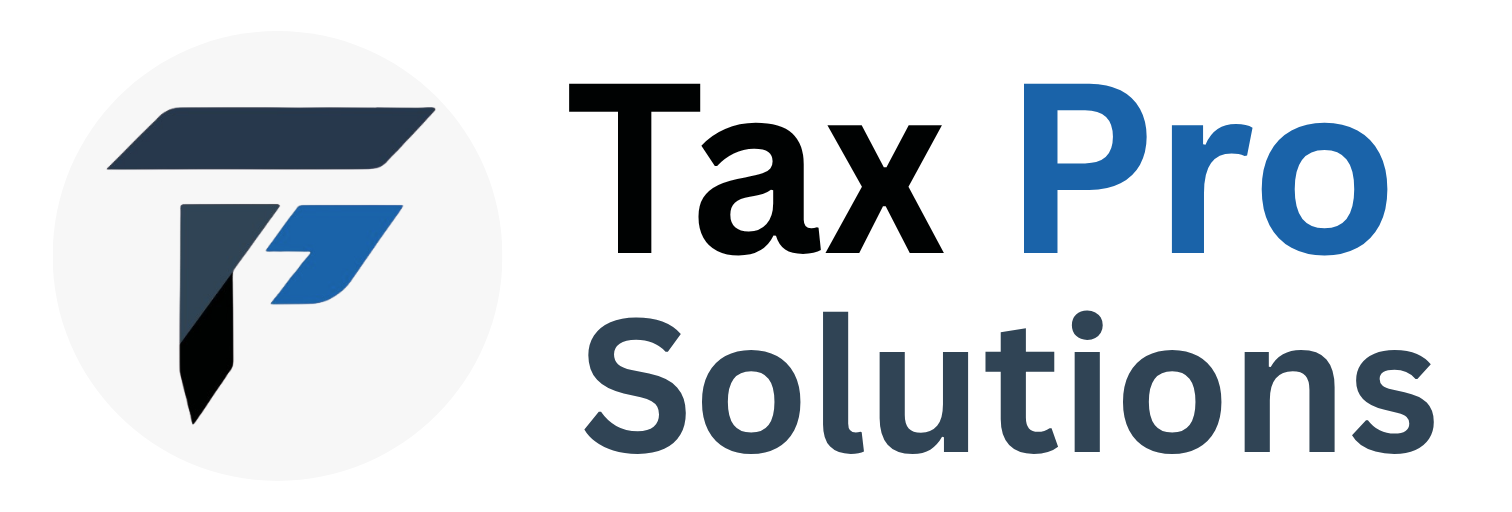
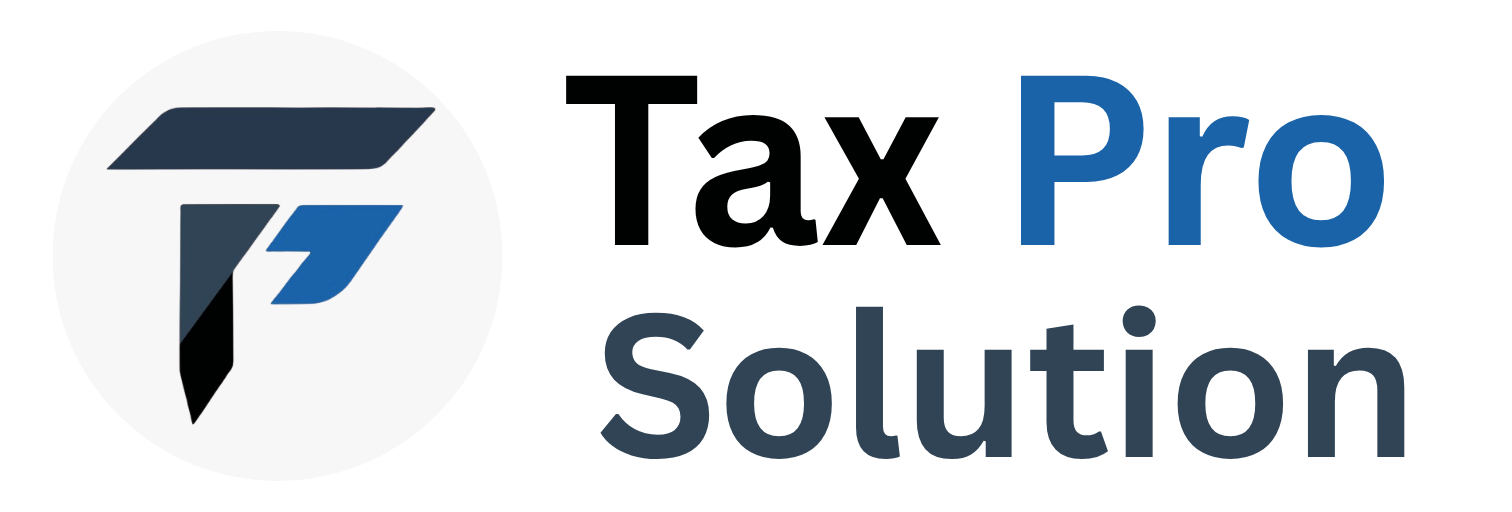
refactor: update branding from Tax Pro Solutions to Tax Pro Solution across multiple files

diff --git a/client/src/pages/About.jsx b/client/src/pages/About.jsx
@@ -75,7 +75,7 @@ const storyChapters = [
     title: "The Beginning",
     icon: FaLightbulb,
     accent: "from-amber-400 to-orange-500",
-    text: "TaxPro Solution started with one idea—starting a business in India should feel simple, not stressful.",
+    text: "Tax Pro Solution started with one idea—starting a business in India should feel simple, not stressful.",
   },
   {
     step: "02",
@@ -110,16 +110,16 @@ const About = () => {
   const aboutSchema = {
     "@context": "https://schema.org",
     "@type": "AboutPage",
-    name: "About Tax Pro Solutions",
+    name: "About Tax Pro Solution",
     description:
-      "Learn about Tax Pro Solutions - your trusted partner in business registration and compliance",
+      "Learn about Tax Pro Solution - your trusted partner in business registration and compliance",
   };
 
   return (
     <>
       <SEOHelmet
-        title="About Tax Pro Solutions - Your Business Growth Partner"
-        description="Discover Tax Pro Solutions's mission to simplify business registration and compliance. We're your trusted partner for GST, company registration, and tax solutions."
+        title="About Tax Pro Solution - Your Business Growth Partner"
+        description="Discover Tax Pro Solution's mission to simplify business registration and compliance. We're your trusted partner for GST, company registration, and tax solutions."
         keywords="about us, business solutions, company registration, tax services, compliance"
         canonicalUrl="https://taxprosolution.co.in/about"
         structuredData={aboutSchema}
@@ -148,7 +148,7 @@ const About = () => {
         </div>
 
         <div className="about-animate-in relative z-10 mx-auto max-w-5xl px-4 text-center sm:px-12 md:px-20">
-          <SectionBadge>About TaxPro Solution</SectionBadge>
+          <SectionBadge>About Tax Pro Solution</SectionBadge>
           <h1 className="mb-4 text-3xl font-bold text-white sm:text-4xl md:text-5xl lg:text-6xl">
             About Us
           </h1>
@@ -180,7 +180,7 @@ const About = () => {
                 About Us
               </h2>
               <p className="text-(--secondary) text-base sm:text-lg leading-relaxed mb-4">
-                TaxPro Solution is a leading business services platform
+                Tax Pro Solution is a leading business services platform
                 dedicated to helping entrepreneurs navigate company registration,
                 compliance, and legal documentation with confidence.
               </p>
@@ -216,7 +216,7 @@ const About = () => {
               <div className="relative overflow-hidden rounded-3xl shadow-2xl shadow-indigo-300/30 ring-1 ring-white/60">
                 <img
                   src={About1}
-                  alt="About TaxPro Solution"
+                  alt="About Tax Pro Solution"
                   className="w-full h-auto object-cover transition duration-700 hover:scale-105"
                 />
               </div>

diff --git a/client/index.html b/client/index.html
@@ -3,9 +3,9 @@
   <head>
     <meta charset="UTF-8" />
     <meta name="viewport" content="width=device-width, initial-scale=1.0" />
-    <meta name="description" content="Tax Pro Solutions - Professional tax and registration services for businesses. Expert team with 15+ years experience helping 2000+ happy clients." />
+    <meta name="description" content="Tax Pro Solution - Professional tax and registration services for businesses. Expert team with 15+ years experience helping 2000+ happy clients." />
     <meta name="keywords" content="tax services, business registration, GST, corporate registration, tax consulting, business compliance" />
-    <meta name="author" content="Tax Pro Solutions" />
+    <meta name="author" content="Tax Pro Solution" />
     <meta name="robots" content="index, follow" />
     <meta name="language" content="English" />
     <meta name="revisit-after" content="7 days" />
@@ -13,14 +13,14 @@
     <!-- Open Graph / Facebook -->
     <meta property="og:type" content="website" />
     <meta property="og:url" content="https://taxprosolution.co.in/" />
-    <meta property="og:title" content="Tax Pro Solutions - Professional Tax & Registration Services" />
+    <meta property="og:title" content="Tax Pro Solution - Professional Tax & Registration Services" />
     <meta property="og:description" content="Expert tax and registration services with 15+ years experience. Trusted by 2000+ businesses." />
     <meta property="og:image" content="https://taxprosolution.co.in/og-image.jpg" />
     
     <!-- Twitter -->
     <meta property="twitter:card" content="summary_large_image" />
     <meta property="twitter:url" content="https://taxprosolution.co.in/" />
-    <meta property="twitter:title" content="Tax Pro Solutions - Professional Tax & Registration Services" />
+    <meta property="twitter:title" content="Tax Pro Solution - Professional Tax & Registration Services" />
     <meta property="twitter:description" content="Expert tax and registration services with 15+ years experience." />
     <meta property="twitter:image" content="https://taxprosolution.co.in/twitter-image.jpg" />
     
@@ -36,14 +36,14 @@
     <link rel="preconnect" href="https://fonts.googleapis.com" />
     <link rel="dns-prefetch" href="https://api.taxprosolution.com" />
     
-    <title>Tax Pro Solutions - Professional Tax & Registration Services</title>
+    <title>Tax Pro Solution - Professional Tax & Registration Services</title>
     
     <!-- JSON-LD Structured Data -->
     <script type="application/ld+json">
     {
       "@context": "https://schema.org",
       "@type": "Organization",
-      "name": "Tax Pro Solutions",
+      "name": "Tax Pro Solution",
       "url": "https://taxprosolution.co.in",
       "logo": "https://taxprosolution.co.in/logo.png",
       "description": "Professional tax and registration services for businesses",

diff --git a/server/src/config/emailTemplates.js b/server/src/config/emailTemplates.js
@@ -9,7 +9,7 @@ const successColor = "#10b981";
 const emailHeader = () => {
   return `
     <div style="background: linear-gradient(135deg, ${primaryColor} 0%, ${primaryHoverColor} 100%); padding: 20px; text-align: center;">
-      <h1 style="color: white; margin: 0; font-size: 28px; font-weight: bold;">TaxPro Solution</h1>
+      <h1 style="color: white; margin: 0; font-size: 28px; font-weight: bold;">Tax Pro Solution</h1>
       <p style="color: ${accentColor}; margin: 5px 0 0 0;">Professional Business Solutions</p>
     </div>
   `;
@@ -20,7 +20,7 @@ const emailFooter = () => {
   return `
     <div style="background-color: ${lightBg}; padding: 20px; text-align: center; border-top: 1px solid #e5e7eb; margin-top: 30px;">
       <p style="color: ${textColor}; font-size: 12px; margin: 0;">
-        <strong>TaxPro Solution</strong> | Professional Business Services<br>
+        <strong>Tax Pro Solution</strong> | Professional Business Services<br>
         Email: taxprosolution26@gmail.com<br>
         This is an automated email. Please do not reply directly.
       </p>
@@ -109,7 +109,7 @@ export const leadCreationEmailTemplate = (leadData) => {
         
         <div style="padding: 30px; background-color: white;">
           <h2 style="color: ${primaryColor}; font-size: 20px; margin-bottom: 10px;">Welcome, ${clientName}!</h2>
-          <p style="color: ${textColor}; margin-bottom: 20px; font-size: 14px;">Thank you for choosing TaxPro Solution for your business needs.</p>
+          <p style="color: ${textColor}; margin-bottom: 20px; font-size: 14px;">Thank you for choosing Tax Pro Solution for your business needs.</p>
           
           <div style="background: linear-gradient(135deg, ${primaryColor}20 0%, ${accentColor}20 100%); padding: 25px; border-radius: 8px; border-left: 4px solid ${accentColor}; margin-bottom: 20px;">
             <p style="margin: 0 0 15px 0; color: ${textColor}; font-size: 14px;"><strong>Service:</strong></p>

diff --git a/client/src/pages/Contact.jsx b/client/src/pages/Contact.jsx
@@ -12,7 +12,7 @@ const ContactForm = () => {
     "@context": "https://schema.org",
     "@type": "ContactPage",
     "name": "Contact Us",
-    "description": "Get in touch with Tax Pro Solutions for business consulting and support"
+    "description": "Get in touch with Tax Pro Solution for business consulting and support"
   };
   const [contactData, setContactData] = useState({
     name: "",
@@ -89,8 +89,8 @@ const ContactForm = () => {
   return (
     <>
       <SEOHelmet
-        title="Contact Tax Pro Solutions - Expert Business Consultation"
-        description="Reach out to Tax Pro Solutions for expert business consultation, tax advice, and registration services. Our team is ready to help your business grow."
+        title="Contact Tax Pro Solution - Expert Business Consultation"
+        description="Reach out to Tax Pro Solution for expert business consultation, tax advice, and registration services. Our team is ready to help your business grow."
         keywords="contact, business consultation, tax advice, support, customer service"
         canonicalUrl="https://taxprosolution.co.in/contact"
         structuredData={contactSchema}
@@ -238,7 +238,7 @@ const ContactForm = () => {
             className="border-0 w-full aspect-[4/3] min-h-[220px] sm:min-h-[280px] md:aspect-video md:min-h-[320px]"
             width="100%"
             height="300"
-            title="Tax Pro Solutions office location"
+            title="Tax Pro Solution office location"
             allowFullScreen=""
             loading="lazy"
             referrerPolicy="no-referrer-when-downgrade"

diff --git a/client/src/pages/TrackStatus.jsx b/client/src/pages/TrackStatus.jsx
@@ -11,7 +11,7 @@ const TrackStatus = () => {
     "@context": "https://schema.org",
     "@type": "WebPage",
     "name": "Track Application Status",
-    "description": "Track the status of your business application with Tax Pro Solutions"
+    "description": "Track the status of your business application with Tax Pro Solution"
   };
   const [serviceIdInput, setServiceIdInput] = useState("");
   const [trackingData, setTrackingData] = useState(null);
@@ -93,8 +93,8 @@ const TrackStatus = () => {
   return (
     <>
       <SEOHelmet
-        title="Track Your Application Status - Tax Pro Solutions"
-        description="Track the real-time status of your business registration and service applications with Tax Pro Solutions. Monitor progress at every step."
+        title="Track Your Application Status - Tax Pro Solution"
+        description="Track the real-time status of your business registration and service applications with Tax Pro Solution. Monitor progress at every step."
         keywords="track status, application tracking, progress monitoring, application status"
         canonicalUrl="https://taxprosolution.co.in/track-status"
         structuredData={trackStatusSchema}

diff --git a/client/src/pages/EventsWebinars.jsx b/client/src/pages/EventsWebinars.jsx
@@ -16,14 +16,14 @@ const EventsWebinars = () => {
     "@type": "WebPage",
     name: "Events and Webinars",
     description:
-      "Events and webinars by Tax Pro Solutions for business registration, tax filing, GST, compliance, and trademark awareness.",
+      "Events and webinars by Tax Pro Solution for business registration, tax filing, GST, compliance, and trademark awareness.",
   };
 
   return (
     <>
       <SEOHelmet
-        title="Events & Webinar - Tax Pro Solutions"
-        description="Join Tax Pro Solutions events and webinars on business setup, GST, tax filing, compliance, accounting, and trademark protection."
+        title="Events & Webinar - Tax Pro Solution"
+        description="Join Tax Pro Solution events and webinars on business setup, GST, tax filing, compliance, accounting, and trademark protection."
         keywords="events, webinars, tax webinar, GST webinar, business registration event"
         canonicalUrl="https://taxprosolution.co.in/events-webinars"
         structuredData={eventsSchema}

diff --git a/client/src/pages/MediaPress.jsx b/client/src/pages/MediaPress.jsx
@@ -9,15 +9,15 @@ const MediaPress = () => {
     "@type": "WebPage",
     name: "Media and Press",
     description:
-      "Media and press information for Tax Pro Solutions, including company overview, service focus, and press contact.",
+      "Media and press information for Tax Pro Solution, including company overview, service focus, and press contact.",
   };
 
   return (
     <>
       <SEOHelmet
-        title="Media & Press - Tax Pro Solutions"
-        description="Find Tax Pro Solutions media information, company overview, service focus, and press contact details."
-        keywords="media, press, Tax Pro Solutions, company information, press contact"
+        title="Media & Press - Tax Pro Solution"
+        description="Find Tax Pro Solution media information, company overview, service focus, and press contact details."
+        keywords="media, press, Tax Pro Solution, company information, press contact"
         canonicalUrl="https://taxprosolution.co.in/media-press"
         structuredData={mediaSchema}
       />

diff --git a/client/src/pages/Sitemap.jsx b/client/src/pages/Sitemap.jsx
@@ -18,7 +18,7 @@ const Sitemap = () => {
     "@context": "https://schema.org",
     "@type": "WebPage",
     name: "Sitemap",
-    description: "Sitemap of all pages available on Tax Pro Solutions",
+    description: "Sitemap of all pages available on Tax Pro Solution",
   };
   const [categories, setCategories] = useState([]);
   const [loading, setLoading] = useState(true);
@@ -56,8 +56,8 @@ const Sitemap = () => {
   return (
     <>
       <SEOHelmet
-        title="Sitemap - Tax Pro Solutions Website Navigation"
-        description="Browse the complete sitemap of Tax Pro Solutions. Find all pages, services, and navigation links to explore our website."
+        title="Sitemap - Tax Pro Solution Website Navigation"
+        description="Browse the complete sitemap of Tax Pro Solution. Find all pages, services, and navigation links to explore our website."
         keywords="sitemap, navigation, site map, pages"
         canonicalUrl="https://taxprosolution.co.in/sitemap"
         structuredData={sitemapSchema}

diff --git a/client/src/pages/CookiePolicy.jsx b/client/src/pages/CookiePolicy.jsx
@@ -9,14 +9,14 @@ const CookiePolicy = () => {
     "@type": "WebPage",
     name: "Cookie Policy",
     description:
-      "Cookie Policy for Tax Pro Solutions - how cookies support service forms, analytics, and website performance.",
+      "Cookie Policy for Tax Pro Solution - how cookies support service forms, analytics, and website performance.",
   };
 
   return (
     <>
       <SEOHelmet
-        title="Cookie Policy - Tax Pro Solutions"
-        description="Learn how Tax Pro Solutions uses cookies and similar technologies to improve website performance, service forms, analytics, and user experience."
+        title="Cookie Policy - Tax Pro Solution"
+        description="Learn how Tax Pro Solution uses cookies and similar technologies to improve website performance, service forms, analytics, and user experience."
         keywords="cookie policy, website cookies, analytics, user preferences"
         canonicalUrl="https://taxprosolution.co.in/cookie-policy"
         structuredData={cookieSchema}

diff --git a/client/src/pages/Disclaimer.jsx b/client/src/pages/Disclaimer.jsx
@@ -9,14 +9,14 @@ const Disclaimer = () => {
     "@type": "WebPage",
     name: "Disclaimer",
     description:
-      "Disclaimer for Tax Pro Solutions - informational content, professional services, and client responsibilities.",
+      "Disclaimer for Tax Pro Solution - informational content, professional services, and client responsibilities.",
   };
 
   return (
     <>
       <SEOHelmet
-        title="Disclaimer - Tax Pro Solutions"
-        description="Read the Tax Pro Solutions disclaimer for website information, professional service limits, government processing, and client responsibilities."
+        title="Disclaimer - Tax Pro Solution"
+        description="Read the Tax Pro Solution disclaimer for website information, professional service limits, government processing, and client responsibilities."
         keywords="disclaimer, tax services disclaimer, compliance disclaimer"
         canonicalUrl="https://taxprosolution.co.in/disclaimer"
         structuredData={disclaimerSchema}

diff --git a/client/src/pages/Home.jsx b/client/src/pages/Home.jsx
@@ -36,7 +36,7 @@ const SectionFallback = memo(function SectionFallback() {
 const homeSchemaData = {
   "@context": "https://schema.org",
   "@type": "LocalBusiness",
-  name: "Tax Pro Solutions",
+  name: "Tax Pro Solution",
   description: "Professional tax and registration services for businesses",
   url: "https://taxprosolution.co.in",
   telephone: commondata.phones?.phone || "+91-XXXXXXXXXX",
@@ -64,7 +64,7 @@ const Home = () => {
       </Suspense>
 
       <SEOHelmet
-        title="Tax Pro Solutions - Get Your Business Registered in 7 Days"
+        title="Tax Pro Solution - Get Your Business Registered in 7 Days"
         description="Fast, reliable business registration and setup services. Get your business registered in just 7 days with expert consultation. Trusted by 2000+ happy clients."
         keywords="business registration, company registration, GST registration, startup registration, business setup"
         canonicalUrl="https://taxprosolution.co.in/"

diff --git a/client/src/pages/Register.jsx b/client/src/pages/Register.jsx
@@ -13,7 +13,7 @@ const Register = () => {
     "@context": "https://schema.org",
     "@type": "CreateAction",
     "name": "Create Account",
-    "description": "Register for a new Tax Pro Solutions account"
+    "description": "Register for a new Tax Pro Solution account"
   };
 
   const navigate = useNavigate();
@@ -108,8 +108,8 @@ const Register = () => {
   return (
     <>
       <SEOHelmet
-        title="Register - Create Your Tax Pro Solutions Account"
-        description="Sign up for Tax Pro Solutions and get started with your business registration, GST filing, and compliance services."
+        title="Register - Create Your Tax Pro Solution Account"
+        description="Sign up for Tax Pro Solution and get started with your business registration, GST filing, and compliance services."
         keywords="register, signup, create account, new user"
         canonicalUrl="https://taxprosolution.co.in/register"
         structuredData={registerSchema}
